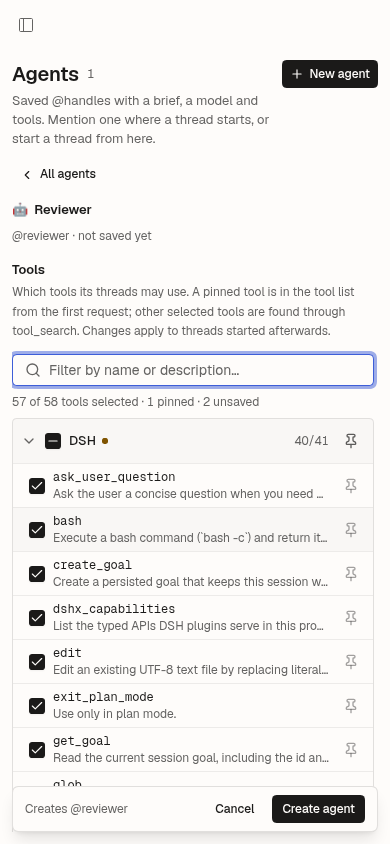
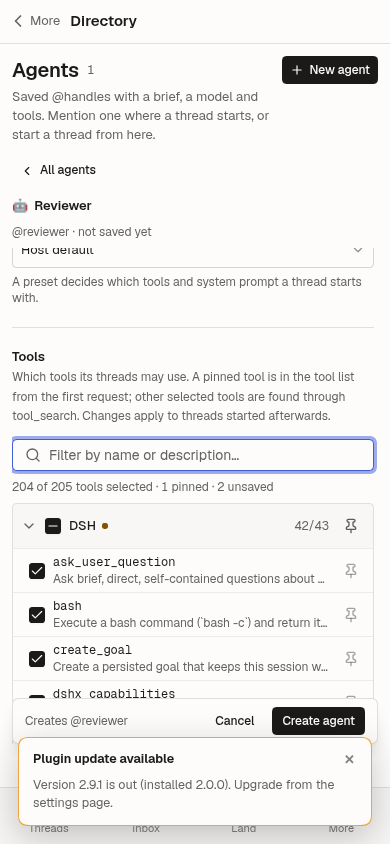
feat(agents): put each editor section's heading above its fields
A 13rem label column beside every section left the fields a narrow strip and the descriptions a tall grey column. One heading line above the fields gives them the pane's full width.

diff --git a/plugins/@dshfiles/agents/src/agent-editor-form.tsx b/plugins/@dshfiles/agents/src/agent-editor-form.tsx
@@ -23,13 +23,14 @@ const DESCRIPTION_ID = 'dshfiles-agent-field-description'
 const Section = (props: { readonly id: string; readonly title: string; readonly description: string; readonly children: ReactNode }): JSX.Element => (
   <section
     aria-labelledby={`${props.id}-title`}
-    className="dshx:grid dshx:grid-cols-[13rem_minmax(0,1fr)] dshx:gap-x-8 dshx:gap-y-3 dshx:border-b dshx:border-border dshx:py-6 dshx:last:border-b-0 dshx:@max-pane-compact:grid-cols-1"
+    className="dshx:flex dshx:flex-col dshx:gap-3 dshx:border-b dshx:border-border dshx:py-5 dshx:last:border-b-0"
   >
-    <div className="dshx:flex dshx:flex-col dshx:gap-1">
+    {/* One header line above the fields, so the fields get the pane's full width. */}
+    <div className="dshx:flex dshx:min-w-0 dshx:flex-wrap dshx:items-baseline dshx:gap-x-3 dshx:gap-y-0.5">
       <h3 id={`${props.id}-title`} className="dshx:text-sm dshx:font-semibold">
         {props.title}
       </h3>
-      <p className="dshx:text-xs dshx:leading-relaxed dshx:text-muted-foreground">{props.description}</p>
+      <p className="dshx:min-w-0 dshx:text-xs dshx:leading-relaxed dshx:text-muted-foreground">{props.description}</p>
     </div>
     <div className="dshx:flex dshx:min-w-0 dshx:flex-col dshx:gap-4">{props.children}</div>
   </section>
